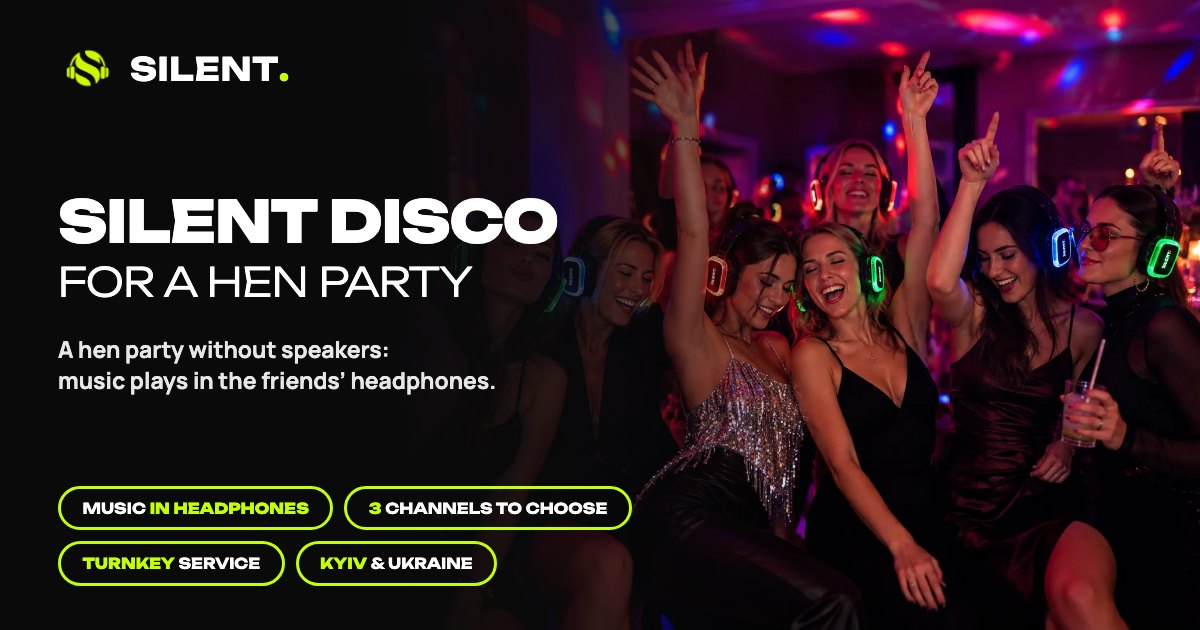
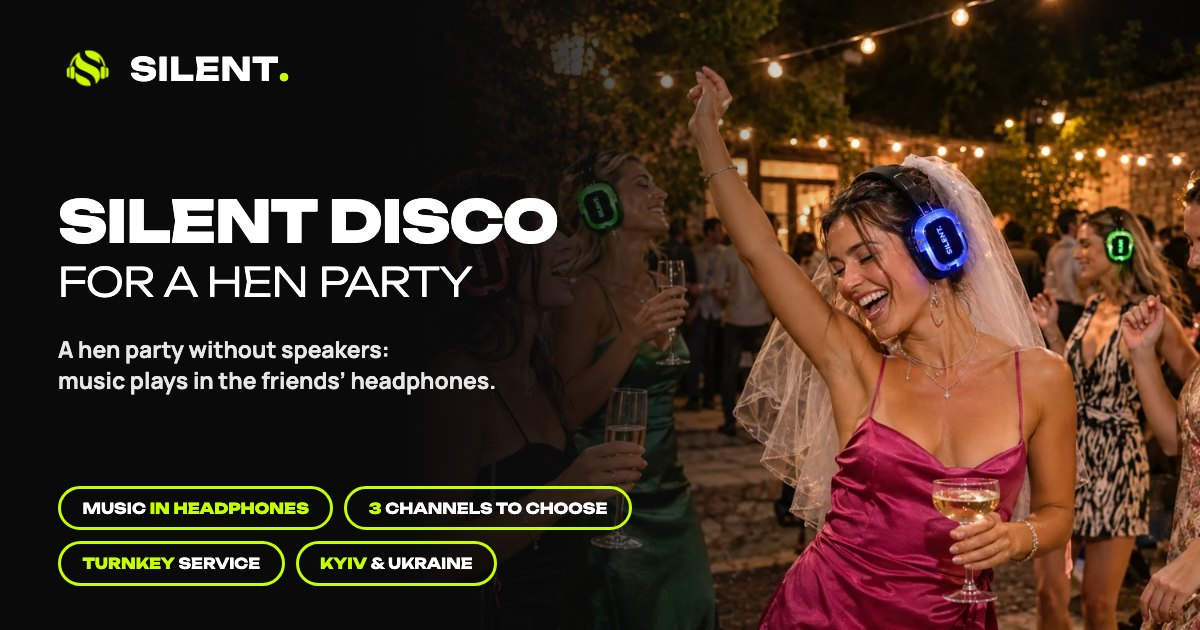
Дівич-вечір: нові фото власника, перетасовано з попередніми по всій сторінці, нова OG-картка

diff --git a/experiences/hen-party/index.html b/experiences/hen-party/index.html
@@ -597,20 +597,20 @@ if (/^(localhost|127\.0\.0\.1|\[::1\])$/.test(location.hostname) || /\.localhost
          рядами на планшеті й телефоні. -->
     <div class="gallery-columns" aria-hidden="true">
       <div class="gallery-col gallery-col-1">
-        <img style="object-position:50% 45%" width="900" height="1600" src="../../images/hen-party/podruhy-pid-siaivom-disco.webp" alt="">
-        <img style="object-position:50% 40%" width="1254" height="1254" src="../../images/hen-party/selfi-podruh.webp" alt="">
-        <img style="object-position:50% 45%" width="1200" height="1200" src="../../images/hen-party/podruhy-pid-vechirnim-nebom.webp" alt="">
-        <img style="object-position:50% 45%" width="900" height="1600" src="../../images/hen-party/podruhy-pid-siaivom-disco.webp" alt="">
-        <img style="object-position:50% 40%" width="1254" height="1254" src="../../images/hen-party/selfi-podruh.webp" alt="">
-        <img style="object-position:50% 45%" width="1200" height="1200" src="../../images/hen-party/podruhy-pid-vechirnim-nebom.webp" alt="">
+        <img style="object-position:50% 35%" width="900" height="1600" src="../../images/hen-party/podruhy-pid-siaivom-disco.webp" alt="">
+        <img style="object-position:50% 35%" width="1122" height="1402" src="../../images/hen-party/nevesta-terasa-tantsiuie.webp" alt="">
+        <img style="object-position:50% 35%" width="1254" height="1254" src="../../images/hen-party/selfi-podruh.webp" alt="">
+        <img style="object-position:50% 35%" width="900" height="1600" src="../../images/hen-party/podruhy-pid-siaivom-disco.webp" alt="">
+        <img style="object-position:50% 35%" width="1122" height="1402" src="../../images/hen-party/nevesta-terasa-tantsiuie.webp" alt="">
+        <img style="object-position:50% 35%" width="1254" height="1254" src="../../images/hen-party/selfi-podruh.webp" alt="">
       </div>
       <div class="gallery-col gallery-col-2">
-        <img style="object-position:50% 40%" width="544" height="544" src="../../images/hen-party/nevesta-v-fati-z-podruhamy.webp" alt="">
-        <img style="object-position:50% 40%" width="1200" height="1200" src="../../images/hen-party/dvi-podruhy-z-koktejliamy.webp" alt="">
-        <img style="object-position:50% 35%" width="1448" height="1086" src="../../images/hen-party/podruhy-z-pidniatymy-rukamy.webp" alt="">
-        <img style="object-position:50% 40%" width="544" height="544" src="../../images/hen-party/nevesta-v-fati-z-podruhamy.webp" alt="">
-        <img style="object-position:50% 40%" width="1200" height="1200" src="../../images/hen-party/dvi-podruhy-z-koktejliamy.webp" alt="">
-        <img style="object-position:50% 35%" width="1448" height="1086" src="../../images/hen-party/podruhy-z-pidniatymy-rukamy.webp" alt="">
+        <img style="object-position:50% 35%" width="1400" height="788" src="../../images/hen-party/nevesta-dvir-pid-hirliandamy.webp" alt="">
+        <img style="object-position:50% 35%" width="1200" height="1200" src="../../images/hen-party/dvi-podruhy-z-koktejliamy.webp" alt="">
+        <img style="object-position:50% 30%" width="933" height="1400" src="../../images/hen-party/chotyry-podruhy-tantsiuiut.webp" alt="">
+        <img style="object-position:50% 35%" width="1400" height="788" src="../../images/hen-party/nevesta-dvir-pid-hirliandamy.webp" alt="">
+        <img style="object-position:50% 35%" width="1200" height="1200" src="../../images/hen-party/dvi-podruhy-z-koktejliamy.webp" alt="">
+        <img style="object-position:50% 30%" width="933" height="1400" src="../../images/hen-party/chotyry-podruhy-tantsiuiut.webp" alt="">
       </div>
       </div>
     </div>
@@ -628,8 +628,8 @@ if (/^(localhost|127\.0\.0\.1|\[::1\])$/.test(location.hostname) || /\.localhost
           <img style="object-position:50% 35%" width="1448" height="1086" src="../../images/hen-party/podruhy-z-pidniatymy-rukamy.webp" alt="Подруги танцюють із піднятими руками в світних навушниках Silent Disco на дівич-вечорі" loading="lazy" decoding="async">
           <button class="gal-play" type="button" data-vbox-open aria-label="Дивитися відео з подій"><svg viewBox="0 0 24 24" width="30" height="30" aria-hidden="true"><path d="M9.4 7 18.2 12 9.4 17z" fill="currentColor" stroke="currentColor" stroke-width="3.4" stroke-linejoin="round" stroke-linecap="round"/></svg></button><span class="gal-ring" aria-hidden="true"><svg viewBox="0 0 132 132"><path id="galRingPath1" d="M66,10 A56,56 0 1,1 65.9,10" fill="none"/><text><textPath href="#galRingPath1" startOffset="0">ДИВИТИСЯ · ДИВИТИСЯ · ДИВИТИСЯ · </textPath></text></svg></span>
         </div>
-        <img style="object-position:50% 40%" width="544" height="544" class="s-a" src="../../images/hen-party/nevesta-v-fati-z-podruhamy.webp" alt="Подруги з нареченою у фаті танцюють у світних навушниках Silent Disco на дівич-вечорі" loading="lazy" decoding="async">
-        <img style="object-position:50% 40%" width="1254" height="1254" class="s-b" src="../../images/hen-party/selfi-podruh.webp" alt="Подруга робить селфі в світних навушниках Silent Disco на вечірці" loading="lazy" decoding="async">
+        <img style="object-position:50% 35%" width="1400" height="933" class="s-a" src="../../images/hen-party/nevesta-smiietsia-z-podruhamy.webp" alt="Наречена у фаті сміється з подругами за столиком у світних навушниках Silent Disco" loading="lazy" decoding="async">
+        <img style="object-position:50% 35%" width="544" height="544" class="s-b" src="../../images/hen-party/nevesta-v-fati-z-podruhamy.webp" alt="Подруги з нареченою у фаті танцюють у світних навушниках Silent Disco на дівич-вечорі" loading="lazy" decoding="async">
       </div>
     </div>
 
@@ -648,7 +648,7 @@ if (/^(localhost|127\.0\.0\.1|\[::1\])$/.test(location.hostname) || /\.localhost
   </div>
 </section>
 
-<!-- СЦЕНАРІЇ: шість форматів дівич-вечора -->
+<!-- СЦЕНАРІЇ: шість приводів для домашньої вечірки -->
 <section class="exp-section exp-story exp-scen" id="scenarios">
   <div class="wrap exp-story-grid">
     <div class="exp-story-text reveal">
@@ -660,7 +660,7 @@ if (/^(localhost|127\.0\.0\.1|\[::1\])$/.test(location.hostname) || /\.localhost
     <div class="scen-cards scen-cards--six">
       <article class="uc-card scen-card reveal">
         <div class="uc-media">
-          <img src="../../images/hen-party/podruhy-tantsiuiut-v-navushnykakh.webp" style="object-position:50% 40%" width="1540" height="1021" alt="Подруги танцюють у світних навушниках Silent Disco на вечірці вдома" loading="lazy" decoding="async">
+          <img src="../../images/hen-party/nevesta-spalnia-divych-vechir.webp" style="object-position:50% 35%" width="1122" height="1402" alt="Наречена в пір’яному халаті й фаті танцює з подругами в спальні у світних навушниках Silent Disco" loading="lazy" decoding="async">
         </div>
         <div class="uc-body">
           <h3>Дівич-вечір вдома</h3>
@@ -669,7 +669,7 @@ if (/^(localhost|127\.0\.0\.1|\[::1\])$/.test(location.hostname) || /\.localhost
       </article>
       <article class="uc-card scen-card reveal">
         <div class="uc-media">
-          <img src="../../images/hen-party/podruhy-pid-vechirnim-nebom.webp" style="object-position:50% 40%" width="1200" height="1200" alt="Подруги усміхаються у світних навушниках Silent Disco на терасі під вечірнім небом" loading="lazy" decoding="async">
+          <img src="../../images/hen-party/podruhy-pid-vechirnim-nebom.webp" style="object-position:50% 35%" width="1200" height="1200" alt="Подруги усміхаються у світних навушниках Silent Disco на терасі під вечірнім небом" loading="lazy" decoding="async">
         </div>
         <div class="uc-body">
           <h3>У дворі чи на терасі</h3>
@@ -678,7 +678,7 @@ if (/^(localhost|127\.0\.0\.1|\[::1\])$/.test(location.hostname) || /\.localhost
       </article>
       <article class="uc-card scen-card reveal">
         <div class="uc-media">
-          <img src="../../images/hen-party/dvi-podruhy-z-koktejliamy.webp" style="object-position:50% 40%" width="1200" height="1200" alt="Дві подруги з коктейлями усміхаються у світних навушниках Silent Disco" loading="lazy" decoding="async">
+          <img src="../../images/hen-party/podruhy-z-shampanskym.webp" style="object-position:50% 35%" width="1122" height="1402" alt="Подруги з келихами шампанського сміються й танцюють у світних навушниках Silent Disco" loading="lazy" decoding="async">
         </div>
         <div class="uc-body">
           <h3>У закладі чи орендованому просторі</h3>
@@ -687,7 +687,7 @@ if (/^(localhost|127\.0\.0\.1|\[::1\])$/.test(location.hostname) || /\.localhost
       </article>
       <article class="uc-card scen-card reveal">
         <div class="uc-media">
-          <img src="../../images/hen-party/podruhy-pid-siaivom-disco.webp" style="object-position:50% 40%" width="900" height="1600" alt="Подруги танцюють у неоновому світлі на тематичному вечорі в навушниках" loading="lazy" decoding="async">
+          <img src="../../images/hen-party/podruhy-pid-siaivom-disco.webp" style="object-position:50% 35%" width="900" height="1600" alt="Подруги танцюють у неоновому світлі на тематичному вечорі в навушниках" loading="lazy" decoding="async">
         </div>
         <div class="uc-body">
           <h3>Тематичний дівич-вечір</h3>
@@ -696,7 +696,7 @@ if (/^(localhost|127\.0\.0\.1|\[::1\])$/.test(location.hostname) || /\.localhost
       </article>
       <article class="uc-card scen-card reveal">
         <div class="uc-media">
-          <img src="../../images/hen-party/nevesta-v-fati-z-podruhamy.webp" style="object-position:50% 35%" width="544" height="544" alt="Подруги з нареченою у фаті танцюють у світних навушниках Silent Disco на дівич-вечорі" loading="lazy" decoding="async">
+          <img src="../../images/hen-party/nevesta-dvir-pid-hirliandamy.webp" style="object-position:50% 35%" width="1400" height="788" alt="Наречена у фаті танцює з піднятою рукою серед подруг у світних навушниках Silent Disco у дворі під гірляндами" loading="lazy" decoding="async">
         </div>
         <div class="uc-body">
           <h3>Сюрприз для нареченої</h3>
@@ -705,7 +705,7 @@ if (/^(localhost|127\.0\.0\.1|\[::1\])$/.test(location.hostname) || /\.localhost
       </article>
       <article class="uc-card scen-card reveal">
         <div class="uc-media">
-          <img src="../../images/hen-party/selfi-podruh.webp" style="object-position:50% 40%" width="1254" height="1254" alt="Подруги роблять селфі разом у світних навушниках Silent Disco" loading="lazy" decoding="async">
+          <img src="../../images/hen-party/podruhy-tantsiuiut-v-navushnykakh.webp" style="object-position:50% 35%" width="1540" height="1021" alt="Подруги танцюють у світних навушниках Silent Disco на вечірці вдома" loading="lazy" decoding="async">
         </div>
         <div class="uc-body">
           <h3>Велика компанія подруг</h3>
@@ -734,9 +734,9 @@ if (/^(localhost|127\.0\.0\.1|\[::1\])$/.test(location.hostname) || /\.localhost
 
     <div class="exp-story-cell">
       <div class="exp-story-shots reveal">
-        <img style="object-position:50% 40%" width="1200" height="1200" class="s-main" src="../../images/hen-party/podruhy-pid-vechirnim-nebom.webp" alt="Подруги усміхаються у світних навушниках Silent Disco на терасі під вечірнім небом" loading="lazy" decoding="async">
-        <img style="object-position:50% 40%" width="1540" height="1021" class="s-a" src="../../images/hen-party/podruhy-tantsiuiut-v-navushnykakh.webp" alt="Подруги танцюють у світних навушниках Silent Disco" loading="lazy" decoding="async">
-        <img style="object-position:50% 40%" width="1200" height="1200" class="s-b" src="../../images/hen-party/dvi-podruhy-z-koktejliamy.webp" alt="Дві подруги з коктейлями у світних навушниках Silent Disco" loading="lazy" decoding="async">
+        <img style="object-position:50% 35%" width="1122" height="1402" class="s-main" src="../../images/hen-party/nevesta-terasa-tantsiuie.webp" alt="Наречена в фаті зі стрічкою «Bride» сміється й танцює з подругами у світних навушниках Silent Disco на терасі" loading="lazy" decoding="async">
+        <img style="object-position:50% 35%" width="1254" height="1254" class="s-a" src="../../images/hen-party/selfi-podruh.webp" alt="Подруга робить селфі в світних навушниках Silent Disco на вечірці" loading="lazy" decoding="async">
+        <img style="object-position:50% 35%" width="1086" height="1400" class="s-b" src="../../images/hen-party/divchyna-v-chornii-sukni-tantsiuie.webp" alt="Дівчина в чорній сукні танцює із закритими очима між подругами у світних навушниках Silent Disco" loading="lazy" decoding="async">
       </div>
     </div>
 
@@ -840,7 +840,7 @@ if (/^(localhost|127\.0\.0\.1|\[::1\])$/.test(location.hostname) || /\.localhost
 
     <div class="process-bento">
       <figure class="pb-shot reveal">
-        <img style="object-position:50% 35%" width="1448" height="1086" src="../../images/hen-party/podruhy-z-pidniatymy-rukamy.webp" alt="Подруги танцюють із піднятими руками в світних навушниках Silent Disco" loading="lazy" decoding="async">
+        <img style="object-position:50% 35%" width="1400" height="933" src="../../images/hen-party/nevesta-smiietsia-z-podruhamy.webp" alt="Наречена у фаті сміється з подругами за столиком у світних навушниках Silent Disco" loading="lazy" decoding="async">
       </figure>
 
       <article class="pb-card reveal">

diff --git a/en/experiences/hen-party/index.html b/en/experiences/hen-party/index.html
@@ -555,20 +555,20 @@ if (/^(localhost|127\.0\.0\.1|\[::1\])$/.test(location.hostname) || /\.localhost
          рядами на планшеті й телефоні. -->
     <div class="gallery-columns" aria-hidden="true">
       <div class="gallery-col gallery-col-1">
-        <img style="object-position:50% 45%" width="900" height="1600" src="../../../images/hen-party/podruhy-pid-siaivom-disco.webp" alt="">
-        <img style="object-position:50% 40%" width="1254" height="1254" src="../../../images/hen-party/selfi-podruh.webp" alt="">
-        <img style="object-position:50% 45%" width="1200" height="1200" src="../../../images/hen-party/podruhy-pid-vechirnim-nebom.webp" alt="">
-        <img style="object-position:50% 45%" width="900" height="1600" src="../../../images/hen-party/podruhy-pid-siaivom-disco.webp" alt="">
-        <img style="object-position:50% 40%" width="1254" height="1254" src="../../../images/hen-party/selfi-podruh.webp" alt="">
-        <img style="object-position:50% 45%" width="1200" height="1200" src="../../../images/hen-party/podruhy-pid-vechirnim-nebom.webp" alt="">
+        <img style="object-position:50% 35%" width="900" height="1600" src="../../../images/hen-party/podruhy-pid-siaivom-disco.webp" alt="">
+        <img style="object-position:50% 35%" width="1122" height="1402" src="../../../images/hen-party/nevesta-terasa-tantsiuie.webp" alt="">
+        <img style="object-position:50% 35%" width="1254" height="1254" src="../../../images/hen-party/selfi-podruh.webp" alt="">
+        <img style="object-position:50% 35%" width="900" height="1600" src="../../../images/hen-party/podruhy-pid-siaivom-disco.webp" alt="">
+        <img style="object-position:50% 35%" width="1122" height="1402" src="../../../images/hen-party/nevesta-terasa-tantsiuie.webp" alt="">
+        <img style="object-position:50% 35%" width="1254" height="1254" src="../../../images/hen-party/selfi-podruh.webp" alt="">
       </div>
       <div class="gallery-col gallery-col-2">
-        <img style="object-position:50% 40%" width="544" height="544" src="../../../images/hen-party/nevesta-v-fati-z-podruhamy.webp" alt="">
-        <img style="object-position:50% 40%" width="1200" height="1200" src="../../../images/hen-party/dvi-podruhy-z-koktejliamy.webp" alt="">
-        <img style="object-position:50% 35%" width="1448" height="1086" src="../../../images/hen-party/podruhy-z-pidniatymy-rukamy.webp" alt="">
-        <img style="object-position:50% 40%" width="544" height="544" src="../../../images/hen-party/nevesta-v-fati-z-podruhamy.webp" alt="">
-        <img style="object-position:50% 40%" width="1200" height="1200" src="../../../images/hen-party/dvi-podruhy-z-koktejliamy.webp" alt="">
-        <img style="object-position:50% 35%" width="1448" height="1086" src="../../../images/hen-party/podruhy-z-pidniatymy-rukamy.webp" alt="">
+        <img style="object-position:50% 35%" width="1400" height="788" src="../../../images/hen-party/nevesta-dvir-pid-hirliandamy.webp" alt="">
+        <img style="object-position:50% 35%" width="1200" height="1200" src="../../../images/hen-party/dvi-podruhy-z-koktejliamy.webp" alt="">
+        <img style="object-position:50% 30%" width="933" height="1400" src="../../../images/hen-party/chotyry-podruhy-tantsiuiut.webp" alt="">
+        <img style="object-position:50% 35%" width="1400" height="788" src="../../../images/hen-party/nevesta-dvir-pid-hirliandamy.webp" alt="">
+        <img style="object-position:50% 35%" width="1200" height="1200" src="../../../images/hen-party/dvi-podruhy-z-koktejliamy.webp" alt="">
+        <img style="object-position:50% 30%" width="933" height="1400" src="../../../images/hen-party/chotyry-podruhy-tantsiuiut.webp" alt="">
       </div>
       </div>
     </div>
@@ -586,8 +586,8 @@ if (/^(localhost|127\.0\.0\.1|\[::1\])$/.test(location.hostname) || /\.localhost
           <img style="object-position:50% 35%" width="1448" height="1086" src="../../../images/hen-party/podruhy-z-pidniatymy-rukamy.webp" alt="Friends dance with their hands up in glowing Silent Disco headphones at a hen party" loading="lazy" decoding="async">
           <button class="gal-play" type="button" data-vbox-open aria-label="Watch videos from events"><svg viewBox="0 0 24 24" width="30" height="30" aria-hidden="true"><path d="M9.4 7 18.2 12 9.4 17z" fill="currentColor" stroke="currentColor" stroke-width="3.4" stroke-linejoin="round" stroke-linecap="round"/></svg></button><span class="gal-ring" aria-hidden="true"><svg viewBox="0 0 132 132"><path id="galRingPath1" d="M66,10 A56,56 0 1,1 65.9,10" fill="none"/><text><textPath href="#galRingPath1" startOffset="0">WATCH · WATCH · WATCH · WATCH · </textPath></text></svg></span>
         </div>
-        <img style="object-position:50% 40%" width="544" height="544" class="s-a" src="../../../images/hen-party/nevesta-v-fati-z-podruhamy.webp" alt="Friends with the bride in a veil dance in glowing Silent Disco headphones at a hen party" loading="lazy" decoding="async">
-        <img style="object-position:50% 40%" width="1254" height="1254" class="s-b" src="../../../images/hen-party/selfi-podruh.webp" alt="A friend takes a selfie in glowing Silent Disco headphones at a party" loading="lazy" decoding="async">
+        <img style="object-position:50% 35%" width="1400" height="933" class="s-a" src="../../../images/hen-party/nevesta-smiietsia-z-podruhamy.webp" alt="A bride in a veil laughs with her friends at a table in glowing Silent Disco headphones" loading="lazy" decoding="async">
+        <img style="object-position:50% 35%" width="544" height="544" class="s-b" src="../../../images/hen-party/nevesta-v-fati-z-podruhamy.webp" alt="Friends with the bride in a veil dance in glowing Silent Disco headphones at a hen party" loading="lazy" decoding="async">
       </div>
     </div>
 
@@ -606,7 +606,7 @@ if (/^(localhost|127\.0\.0\.1|\[::1\])$/.test(location.hostname) || /\.localhost
   </div>
 </section>
 
-<!-- СЦЕНАРІЇ: шість форматів дівич-вечора -->
+<!-- СЦЕНАРІЇ: шість приводів для домашньої вечірки -->
 <section class="exp-section exp-story exp-scen" id="scenarios">
   <div class="wrap exp-story-grid">
     <div class="exp-story-text reveal">
@@ -618,7 +618,7 @@ if (/^(localhost|127\.0\.0\.1|\[::1\])$/.test(location.hostname) || /\.localhost
     <div class="scen-cards scen-cards--six">
       <article class="uc-card scen-card reveal">
         <div class="uc-media">
-          <img src="../../../images/hen-party/podruhy-tantsiuiut-v-navushnykakh.webp" style="object-position:50% 40%" width="1540" height="1021" alt="Friends dance in glowing Silent Disco headphones at a party at home" loading="lazy" decoding="async">
+          <img src="../../../images/hen-party/nevesta-spalnia-divych-vechir.webp" style="object-position:50% 35%" width="1122" height="1402" alt="A bride in a feather-trimmed robe and veil dances with her friends in a bedroom in glowing Silent Disco headphones" loading="lazy" decoding="async">
         </div>
         <div class="uc-body">
           <h3>Hen party at home</h3>
@@ -627,7 +627,7 @@ if (/^(localhost|127\.0\.0\.1|\[::1\])$/.test(location.hostname) || /\.localhost
       </article>
       <article class="uc-card scen-card reveal">
         <div class="uc-media">
-          <img src="../../../images/hen-party/podruhy-pid-vechirnim-nebom.webp" style="object-position:50% 40%" width="1200" height="1200" alt="Friends smile in glowing Silent Disco headphones on a terrace under the evening sky" loading="lazy" decoding="async">
+          <img src="../../../images/hen-party/podruhy-pid-vechirnim-nebom.webp" style="object-position:50% 35%" width="1200" height="1200" alt="Friends smile in glowing Silent Disco headphones on a terrace under the evening sky" loading="lazy" decoding="async">
         </div>
         <div class="uc-body">
           <h3>In the yard or on the terrace</h3>
@@ -636,7 +636,7 @@ if (/^(localhost|127\.0\.0\.1|\[::1\])$/.test(location.hostname) || /\.localhost
       </article>
       <article class="uc-card scen-card reveal">
         <div class="uc-media">
-          <img src="../../../images/hen-party/dvi-podruhy-z-koktejliamy.webp" style="object-position:50% 40%" width="1200" height="1200" alt="Two friends with cocktails smile in glowing Silent Disco headphones" loading="lazy" decoding="async">
+          <img src="../../../images/hen-party/podruhy-z-shampanskym.webp" style="object-position:50% 35%" width="1122" height="1402" alt="Friends with glasses of champagne laugh and dance in glowing Silent Disco headphones" loading="lazy" decoding="async">
         </div>
         <div class="uc-body">
           <h3>At a venue or a rented space</h3>
@@ -645,7 +645,7 @@ if (/^(localhost|127\.0\.0\.1|\[::1\])$/.test(location.hostname) || /\.localhost
       </article>
       <article class="uc-card scen-card reveal">
         <div class="uc-media">
-          <img src="../../../images/hen-party/podruhy-pid-siaivom-disco.webp" style="object-position:50% 40%" width="900" height="1600" alt="Friends dance in neon light at a themed evening in headphones" loading="lazy" decoding="async">
+          <img src="../../../images/hen-party/podruhy-pid-siaivom-disco.webp" style="object-position:50% 35%" width="900" height="1600" alt="Friends dance in neon light at a themed evening in headphones" loading="lazy" decoding="async">
         </div>
         <div class="uc-body">
           <h3>Themed hen party</h3>
@@ -654,7 +654,7 @@ if (/^(localhost|127\.0\.0\.1|\[::1\])$/.test(location.hostname) || /\.localhost
       </article>
       <article class="uc-card scen-card reveal">
         <div class="uc-media">
-          <img src="../../../images/hen-party/nevesta-v-fati-z-podruhamy.webp" style="object-position:50% 35%" width="544" height="544" alt="Friends with the bride in a veil dance in glowing Silent Disco headphones at a hen party" loading="lazy" decoding="async">
+          <img src="../../../images/hen-party/nevesta-dvir-pid-hirliandamy.webp" style="object-position:50% 35%" width="1400" height="788" alt="A bride in a veil dances with a raised hand among her friends in glowing Silent Disco headphones in a yard under string lights" loading="lazy" decoding="async">
         </div>
         <div class="uc-body">
           <h3>A surprise for the bride</h3>
@@ -663,7 +663,7 @@ if (/^(localhost|127\.0\.0\.1|\[::1\])$/.test(location.hostname) || /\.localhost
       </article>
       <article class="uc-card scen-card reveal">
         <div class="uc-media">
-          <img src="../../../images/hen-party/selfi-podruh.webp" style="object-position:50% 40%" width="1254" height="1254" alt="Friends take a selfie together in glowing Silent Disco headphones" loading="lazy" decoding="async">
+          <img src="../../../images/hen-party/podruhy-tantsiuiut-v-navushnykakh.webp" style="object-position:50% 35%" width="1540" height="1021" alt="Friends dance in glowing Silent Disco headphones at a party at home" loading="lazy" decoding="async">
         </div>
         <div class="uc-body">
           <h3>A big group of friends</h3>
@@ -692,9 +692,9 @@ if (/^(localhost|127\.0\.0\.1|\[::1\])$/.test(location.hostname) || /\.localhost
 
     <div class="exp-story-cell">
       <div class="exp-story-shots reveal">
-        <img style="object-position:50% 40%" width="1200" height="1200" class="s-main" src="../../../images/hen-party/podruhy-pid-vechirnim-nebom.webp" alt="Friends smile in glowing Silent Disco headphones on a terrace under the evening sky" loading="lazy" decoding="async">
-        <img style="object-position:50% 40%" width="1540" height="1021" class="s-a" src="../../../images/hen-party/podruhy-tantsiuiut-v-navushnykakh.webp" alt="Friends dance in glowing Silent Disco headphones" loading="lazy" decoding="async">
-        <img style="object-position:50% 40%" width="1200" height="1200" class="s-b" src="../../../images/hen-party/dvi-podruhy-z-koktejliamy.webp" alt="Two friends with cocktails in glowing Silent Disco headphones" loading="lazy" decoding="async">
+        <img style="object-position:50% 35%" width="1122" height="1402" class="s-main" src="../../../images/hen-party/nevesta-terasa-tantsiuie.webp" alt="A bride in a veil and a «Bride» sash laughs and dances with her friends in glowing Silent Disco headphones on a terrace" loading="lazy" decoding="async">
+        <img style="object-position:50% 35%" width="1254" height="1254" class="s-a" src="../../../images/hen-party/selfi-podruh.webp" alt="A friend takes a selfie in glowing Silent Disco headphones at a party" loading="lazy" decoding="async">
+        <img style="object-position:50% 35%" width="1086" height="1400" class="s-b" src="../../../images/hen-party/divchyna-v-chornii-sukni-tantsiuie.webp" alt="A girl in a black dress dances with her eyes closed between friends in glowing Silent Disco headphones" loading="lazy" decoding="async">
       </div>
     </div>
 
@@ -798,7 +798,7 @@ if (/^(localhost|127\.0\.0\.1|\[::1\])$/.test(location.hostname) || /\.localhost
 
     <div class="process-bento">
       <figure class="pb-shot reveal">
-        <img style="object-position:50% 35%" width="1448" height="1086" src="../../../images/hen-party/podruhy-z-pidniatymy-rukamy.webp" alt="Friends dance with their hands up in glowing Silent Disco headphones" loading="lazy" decoding="async">
+        <img style="object-position:50% 35%" width="1400" height="933" src="../../../images/hen-party/nevesta-smiietsia-z-podruhamy.webp" alt="A bride in a veil laughs with her friends at a table in glowing Silent Disco headphones" loading="lazy" decoding="async">
       </figure>
 
       <article class="pb-card reveal">

diff --git a/tools/en_pages.py b/tools/en_pages.py
@@ -4513,3 +4513,15 @@ for _k, _v in _HEN.items():
     T_PAGE_ALL[_k] = _v
     if '<a href="/' in _k:
         T_PAGE_ALL[_en_href(_k)] = _en_href(_v)
+
+# --- «Дівич-вечір»: alt-тексти фото від власника (04.11.2026)
+for _k, _v in {
+ 'Наречена в фаті зі стрічкою «Bride» сміється й танцює з подругами у світних навушниках Silent Disco на терасі': 'A bride in a veil and a «Bride» sash laughs and dances with her friends in glowing Silent Disco headphones on a terrace',
+ 'Наречена в пір’яному халаті й фаті танцює з подругами в спальні у світних навушниках Silent Disco': 'A bride in a feather-trimmed robe and veil dances with her friends in a bedroom in glowing Silent Disco headphones',
+ 'Подруги з келихами шампанського сміються й танцюють у світних навушниках Silent Disco': 'Friends with glasses of champagne laugh and dance in glowing Silent Disco headphones',
+ 'Наречена у фаті танцює з піднятою рукою серед подруг у світних навушниках Silent Disco у дворі під гірляндами': 'A bride in a veil dances with a raised hand among her friends in glowing Silent Disco headphones in a yard under string lights',
+ 'Наречена у фаті сміється з подругами за столиком у світних навушниках Silent Disco': 'A bride in a veil laughs with her friends at a table in glowing Silent Disco headphones',
+ 'Чотири подруги танцюють у вечірніх сукнях і світних навушниках Silent Disco': 'Four friends dance in evening dresses and glowing Silent Disco headphones',
+ 'Дівчина в чорній сукні танцює із закритими очима між подругами у світних навушниках Silent Disco': 'A girl in a black dress dances with her eyes closed between friends in glowing Silent Disco headphones',
+}.items():
+    T_PAGE_ALL[_k] = _v
